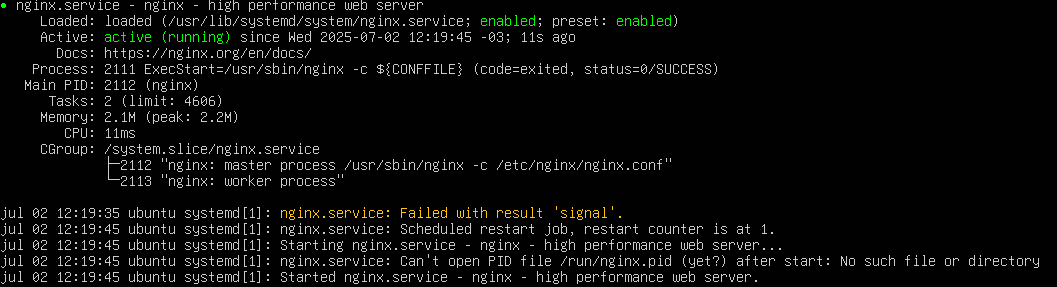
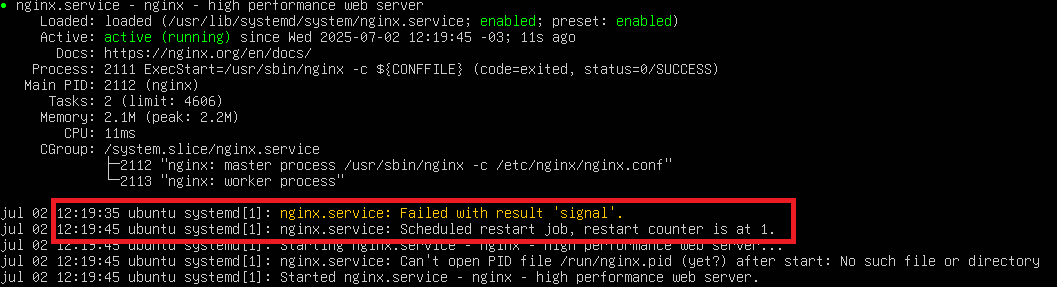
README.md finalizado

Changed region(s): [[0.0312, 0.669, 0.7805, 0.8641]]

diff --git a/README.md b/README.md
@@ -18,26 +18,51 @@
     <a href="#-visão-do-projeto">Visão do projeto</a> •
     <a href="#-tecnologias">Tecnologias</a> •
     <a href="#-instruções">Instruções</a> •
+    <a href="#-testes">Testes</a> •
     <a href="#-autora">Autora</a>
  </p>
 
+</br>
 
 ## 🔭 Visão do projeto
 
-<p>O projeto foi desenvolvido durante a 1º Sprint do Programa Compass.Uol Scholarship, que tinha por desafio construir uma instância Amazon EC2 com um servidor Nginx no Ubuntu 24.04 e um sistema de monitoramento e notificação.</p>
+O projeto foi desenvolvido durante a 1º Sprint do Programa Compass.Uol Scholarship, que tinha por desafio construir uma instância Amazon EC2 com um servidor Nginx no Ubuntu 24.04 e um script de monitoramento e notificação através do Webhook Discord.
 
-<p>O sistema foi configurado para funcionar automaticamente ao ligar a máquina e reiniciar em caso de falha ou interrupção, além de realizar monitoramentos a cada minuto sobre status de funcionamento. Caso o sistema não estiver funcionando, o script envia avisos para um servidor Discord informando a indisponibilidade do servidor, juntamente com data e hora de detecção.</p>
+O sistema foi configurado para funcionar automaticamente ao ligar a máquina e reiniciar em caso de falha ou interrupção, além de realizar monitoramentos a cada minuto sobre status de funcionamento. Caso o sistema não estiver funcionando, o script envia avisos informando a indisponibilidade do servidor, juntamente com data e hora de detecção.
+
+</br>
 
 
 ## 💻 Tecnologias
 
 [![Tenologias](https://skillicons.dev/icons?i=linux,bash,ubuntu,discord,nginx,aws,git)](https://skillicons.dev)
 
+</br>
+
 ## ⚙ Instruções
 
 ### Índice
 
-- [Configuração do Ambiente AWS](#configuração-do-ambiente-aws)
+- [Configuração da VPC](#configuração-da-vpc)
+
+    + [Criando a VPC](#criando-a-vpc)
+
+    + [Criando Subredes](#criando-subredes)
+
+    + [Criando o Internet Gateway](#criando-o-internet-gateway)
+
+    + [Criando Tabelas de Rotas](#criando-tabelas-de-rotas)
+
+    + [Mapa de Recursos](#mapa-de-recursos)
+
+- [Configurando a EC2](#configurando-a-ec2)
+
+    + [Criando a EC2](#criando-a-ec2)
+
+    + [Criando um Grupo de Segurança](#criando-um-grupo-de-segurança)
+
+    + [Acessando a EC2](#acessando-a-ec2)
+
 - [Configurações Iniciais da VM](#configurações-iniciais-da-vm)
 
     + [Ativando o Superusuário](#ativando-o-superusuário)
@@ -53,8 +78,6 @@
     + [Iniciando o Servidor Automaticamente](#iniciando-o-servidor-automaticamente)
 
     + [Reiniciando o Servidor em Caso de Interrupção ou Falha](#reiniciando-o-servidor-em-caso-de-interrupção-ou-falha)
-
-    + [Teste de Reinicialização Automática](#teste-de-reinicialização-automatica)
 
 - [Localizando a Página HTML](#localizando-a-página-html)
 
@@ -72,15 +95,136 @@
 
     + [Configurando o Cron para o Script](#configurando-o-cron-para-o-script)
 
+</br>
+
+### Configuração da VPC
+
+Antes de criar uma instância EC2, é essencial configurar uma VPC (Virtual Private Cloud) para garantir que os recursos estejam isolados, organizados e seguros dentro de um ambiente personalidado.
+
+##### Criando a VPC
+
+1. Acesse o AWS VPC Console
+2. Painel da VPC > Nuvem Privada Virtual > Suas VPC's
+3. Criar VPC
+4. Selecione "Only VPC" e configure:
+    * Nome: `PB - JUN 2025`
+    * CIDR IPv4: `10.0.0.0/16`
+    * CIDR IPv6: `none`
+    * Tags: rótulos definidos no projeto.
+
+#### Criando Subredes
+1. Painel da VPC > Nuvem Privada Virtual > Sub-redes
+2. Criar sub-rede
+3. Digite o ID da VPC.
+4. Configure as sub-redes:
+
+</br>
+
+| **Subredes** | **Tipo** | **Zona de Disponibilidade** | **CIDR IPv4** |
+|:------------:|:--------:|:---------------------------:|:-------------:|
+|    subpb-A   |  Pública |          us-east-1a         |  10.0.1.0/24  |
+|    subpb-B   |  Pública |          us-east-1b         |  10.0.2.0/24  |
+|    subpv-A   |  Privada |          us-east-1c         |  10.0.3.0/24  |
+|    subpv-B   |  Privada |          us-east-1d         |  10.0.4.0/24  |
+
+</br>
+
+#### Criando o Internet Gateway
+
+1. Painel da VPC > Nuvem Privada Virtual > Gateways da Internet
+2. Criar Gateway da Internet
+
+    * Nome: `PB-Gateway`
+
+4. Clicar em criar Gateway da Internet
+5. Anexar o gateway à VPC
+
+#### Criando Tabelas de Rotas
+* Subredes Públicas
+
+    1. Painel da VPC > Nuvem Privada Virtual > Tabelas de Rotas
+    2. Criar Tabela de Rotas
+        * Nome: `subredes-publicas-PB`
+        * VPC: `PB - JUN 2025`
+    3. Editar a tabela para adicionar a rota `0.0.0.0` apontando para o Gateway de Internet
+    4. Associar com as sub-redes públicas
+
+* Subredes Privadas
+
+    1. Painel da VPC > Nuvem Privada Virtual > Tabelas de Rotas
+    2. Criar Tabela de Rotas
+
+        * Nome: `subredes-privadas-PB`
+        * VPC: `PB - JUN 2025`
+
+    3. Associar com as sub-redes públicas
+
+### Mapa de Recursos
+
+Abaixo temos a representação resumida das estrtura da VPC:
+
+<img src="./img-README/mapa-de-recursos.png" alt="Mapa de Recursos da VPC">
+
+</br>
+
+### Configurando a EC2
+
+#### Criando a EC2
+
+1. Acesse o AWS EC2 Console
+2. EC2 > Instâncias > Instâncias
+3. Executar Instâncias:
+
+    * Nome e Tags: de acordo com o projeto
+    * Selecionar imagem do Sistema Operacional (SO)
+    * Gerar par de chaves para login (RSA/.pem)
+    * Outras configurações de preferência
+
+4. Clicar em Executar Instância
+
+#### Criando um Grupo de Segurança
+
+1. EC2 > Rede e Segurança > Security Groups
+2. Criar Grupo de Segurança
+
+    * Nome: `securityGroup-PB`
+    * Descrição: `Permitir acesso SSH e HTTP`
+    * VPC: `PB - JUN 2025`
+
+3. Adicionar Regras de Entrada para permitir acesso público via HTTP e SSH do próprio IP, a fim de garantir mais segurança ao sistema.
+
+<img src="./img-README/regras-de-entrada-security-group.png" alt="Regras de Entrada do Security Group">
+
+#### Acessando a EC2
+
+Como foi definido as regras de acesso via SSH, a conexão se dará via Prompt de Comando ou Terminal:
+
+1. EC2 > Instâncias > Instâncias
+2. Selecionar a VPC
+3. Estado da Instância > Iniciar Instâncias
+4. Abra o Promp de Comando ou Terminal no mesmo diretório que está a chave de login .pem
+5. Execute o comando `ssh -i "chave.pem" ubuntu@ip_publico`
+6. Siga os passos fianis para o acesso
+
+> Para garantir que a chave de acesso não fique visível publicamente no computador, execute o comando: chmod 400 "chave.pem"
+
+</br>
+
 ### Configuração da Máquina Virtual
+
+Realize as configurações básicas de qualquer SO, definindo usuários, senhas e outras configurações de preferência.
+
+</br>
 
 #### Ativando o Superusuário
 
-<p>Logo após acessar a VM, é de extrema importância estar logado como super usuário, para que assim as configurações possam ser realizadas sem problemas de permissão. Para entrar como superusuário digite o comando abaixo e logo em seguida a senha definida na instalação do SO:</p>
+Logo após acessar a VM, é de extrema importância estar logado como super usuário, para que assim as configurações possam ser realizadas sem problemas de permissão. Para entrar como superusuário digite o comando abaixo e logo em seguida a senha definida na instalação do SO:
 
 ```bash
 sudo su
 ```
+
+</br>
 
 #### Ajustando Data e Hora
 Para obter melhores resultados no uso do sistema, as configurações de data e hora precisam estar ajustadas corretamente. Para conferir isso, digite `date`.
@@ -93,6 +237,8 @@ Depois de conferir, digite de acordo com o continente e cidade que deseja altera
 ```bash
 timectl set-timezone continente/cidade
 ```
+
+</br>
 
 ### Instalação do Servidor Nginx
 
@@ -124,6 +270,8 @@ Digite o ip público da EC2 no navegador, caso apareça o site, o Nginx está fu
 Em casos de aplicação em VM local, execute o comando `ip a` para saber o ip local:
 
 <img src="./img-README/ip-a.png" alt="Ip público no EC2">
+
+</br>
 
 ### Configurações Gerais do Nginx
 
@@ -170,19 +318,7 @@ systemctl restart nginx # reiniciar o servidor
 systemctl status nginx # verificar status de funcionamento
 ```
 
-#### Teste de Reinicialização Automática
-
-Caso deseje testar o funcionamento desta configuração, podemos simular uma interrupção brusca no servidor ao forçar a finalização do processo em execução. Use o seguinte comando:
-
-```bash
-kill -9 $(pidof nginx)
-```
-
-Após 10 segundos execute o comando `systemctl status nginx` para verificar o status do servidor e verá a seguinte informação:
-
-<img src="./img-README/teste-nginx.png" alt="Status após a interrupção do Nginx ">
-
-Note abaixo que ocorreu uma falha de conexão com o signal (escrito em laranja) e na linha seguinte, mostra que 10 segundos depois, o Nginx reiniciou automaticamente como definido nas configurações.
+</br>
 
 ### Localizando a Página HTML
 
@@ -198,11 +334,11 @@ Dentro do arquivo, é preciso procurar `root` no bloco `server`. Abaixo, vemos q
 
 Portanto, para alterar esse arquivo basta ir até o diretório e editar o arquivo ou importar um arquivo.
 
+</br>
+
 ### Criando o Ambiente de Webhook no Discord
 
-Antes de gerenciar o recurso, é preciso ter criado um servidor e um canal de texto
-
-#### Passso a Passo
+Antes de gerenciar o recurso, é preciso ter criado um servidor e um canal de texto.
 
 1. No servidor, abra a aba de configurações do canal;
 2. Selecione a opção "editar canal";
@@ -215,6 +351,8 @@ Antes de gerenciar o recurso, é preciso ter criado um servidor e um canal de te
 
 <img src="./img-README/discord.png" alt="Configuração do Webhook no Discord">
 
+</br>
+
 ### Criando o Arquivo .env
 
 Dentro do diretório crie o arquivo .env para colocar a URL do Webhook copiada dentro da variável `discordWebhook`:
@@ -224,6 +362,8 @@ discordWebhook="URL"
 ```
 
 >CUIDADO ao criar esse arquivo, não pode conter espaços antes, dentro e/ou depois da linha de código. Caso o contrário o script não será capaz de detectar corretamente o conteúdo do arquivo .env!
+
+</br>
 
 ### Importando o Script
 
@@ -271,9 +411,13 @@ fi
 chmod +x script_verifica.sh
 ```
 
+</br>
+
 ### Funcionamento do Script a Cada Minuto
 
 O cron é um agendador de tarefas do sistema que permite executar comandos ou scripts automaticamente em horários ou intervalos regulares. As definições são feitas dentro do arquivo crontab e devem ser carregadas para funcionar corretamente.
+
+</br>
 
 #### Comandos Básicos do Cron
 
@@ -284,6 +428,8 @@ O cron é um agendador de tarefas do sistema que permite executar comandos ou sc
 
 >É importante destacar que os cronjobs são definidos por usuários, ou seja, se definiu um cronjob com o usuário root, não pode alterar ou listar a menos que esteja logado como usuário root!
 
+</br>
+
 #### Configurando o Cron para o Script
 
 Primeiramente, abra o arquivo do crontab para edição como o comando: `crontab -e` e acrescente o seguinte código:
@@ -293,7 +439,37 @@ Primeiramente, abra o arquivo do crontab para edição como o comando: `crontab 
 ```
 O comando acima está determinando que o script_verifica.sh irá rodar a cada minuto (* * * * *) e sua saída será armazenada no arquivo monitora.log (2>&1) sem sobrepor o que já foi escrito a cada ciclo (>>).
 
-Por fim, pode o comando `service cron start` para carregar as novas configurações do crontab.
+Por fim, use o comando `service cron start` para carregar as novas configurações do crontab.
+
+</br>
+
+## 🧪 Testes
+
+### 1. Verificando a Reinicialização Automática 
+
+Podemos simular uma interrupção brusca no servidor ao forçar a finalização do processo em execução. Use o seguinte comando:
+
+```bash
+kill -9 $(pidof nginx)
+```
+
+Após 10 segundos execute o comando `systemctl status nginx` para verificar o status do servidor e verá a seguinte informação:
+
+<img src="./img-README/teste-nginx.png" alt="Status após a interrupção do Nginx ">
+
+Note no que final da saída, ocorreu uma falha de conexão (escrito em laranja) e na linha seguinte, mostra que 10 segundos depois, o Nginx reiniciou automaticamente como definido nas configurações.
+
+### 2. Verificando Monitoramento de Status
+
+Ao acessar o arquivo de monitoramento `/var/log/monitora.log`, vemos todas as verificações a partir do momento que o servidor é ativado quando ligado:
+
+<img src="./img-README/teste-monitora.png" alt="Status após a interrupção do Nginx ">
+
+Também, vemos abaixo as notificações recebidas no canal do Discord quando o servidor está Offline:
+
+<img src="./img-README/teste-discord.png" alt="Status após a interrupção do Nginx ">
+
+</br>
 
 ## 🧙♂ Autora
 
